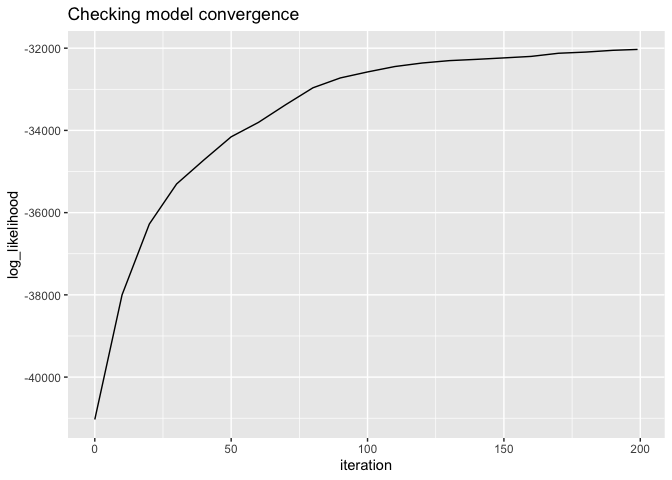
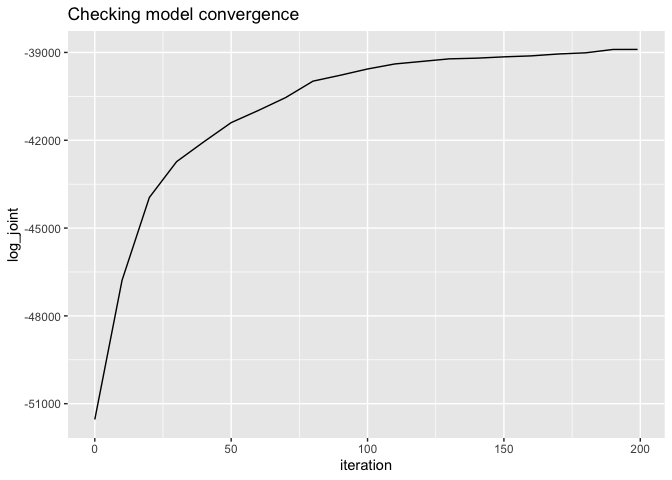
Silence deprecation warning by using qplot()

diff --git a/README.md b/README.md
@@ -152,12 +152,10 @@ lda <- tidylda(
 
 # did the model converge?
 # there are actual test stats for this, but should look like "yes"
-qplot(x = iteration, y = log_likelihood, data = lda$log_likelihood, geom = "line") + 
-    ggtitle("Checking model convergence")
-#> Warning: `qplot()` was deprecated in ggplot2 3.4.0.
-#> This warning is displayed once per session.
-#> Call `lifecycle::last_lifecycle_warnings()` to see where this warning was
-#> generated.
+lda$log_likelihood |>
+  ggplot(aes(x = iteration, y = log_joint)) +
+  geom_line() + 
+  ggtitle("Checking model convergence")
 ```
 
 <img src="man/figures/README-example-1.png" alt="" width="100%" />
@@ -370,7 +368,9 @@ lda2 <- refit(
 
 # we can do similar analyses
 # did the model converge?
-qplot(x = iteration, y = log_likelihood, data = lda2$log_likelihood, geom = "line") +
+lda2$log_likelihood |>
+  ggplot(aes(x = iteration, y = log_joint)) +
+  geom_line() + 
   ggtitle("Checking model convergence")
 ```
 
